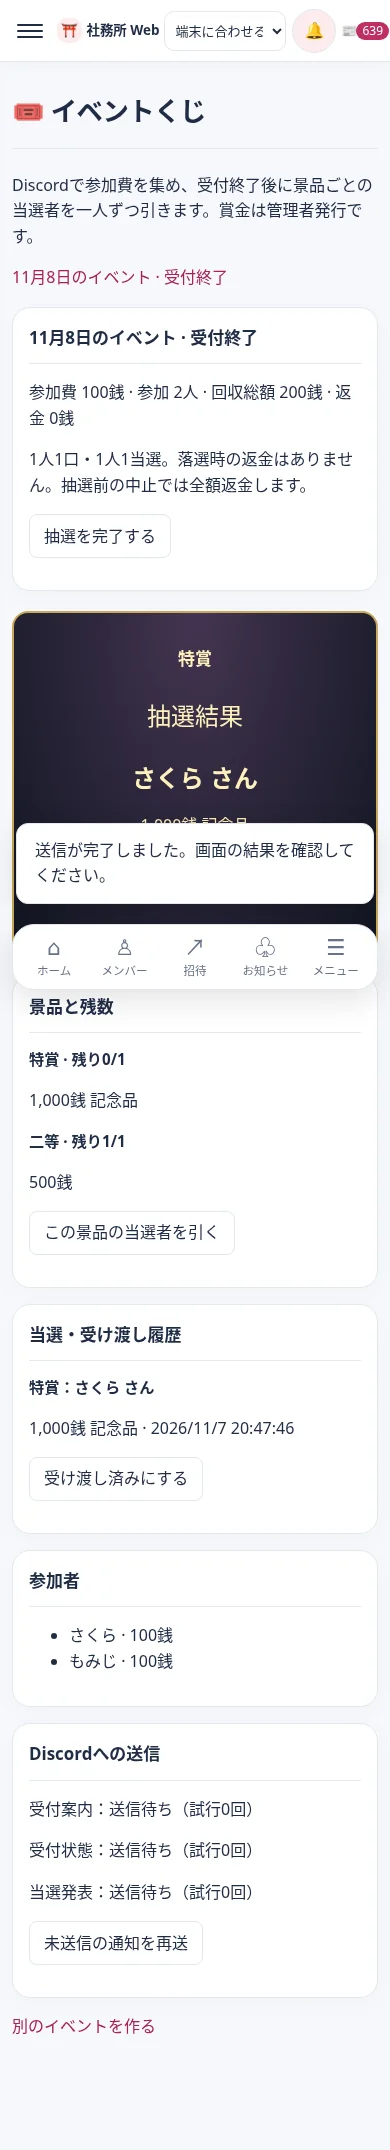
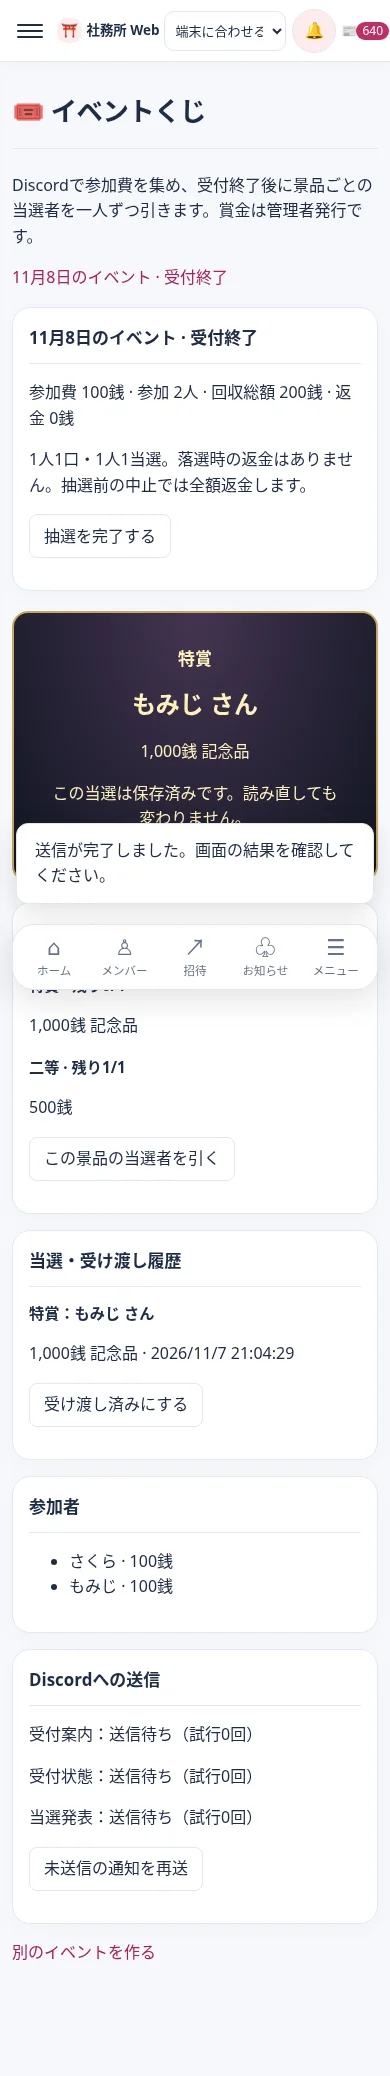
画面内更新でも抽選演出を動かし入力エラーから修正できるようにする

diff --git a/src/web/eventLottery.tsx b/src/web/eventLottery.tsx
@@ -17,7 +17,7 @@ export function mountEventLottery(app:Hono<Env>,db:Db,channels:()=>Promise<Guild
   const field=(name:string,value:string|number)=><input type="hidden" name={name} value={String(value)}/>;
   const form=(action:string,label:string,extra:Record<string,string>={})=><form method="post" action={PATH}>{field('_csrf',s.csrfToken)}{field('eventId',id!)}{field('version',model!.event.version)}{field('action',action)}{Object.entries(extra).map(([k,v])=>field(k,v))}<button type="submit">{label}</button></form>;
   const result=model?.results.find(r=>r.id===c.req.query('draw'));
-  return c.html(<Layout title="イベントくじ" session={s} nav="economy"><link rel="stylesheet" href={assetUrl('event-lottery.css')}/><script src={assetUrl('event-lottery.js')} defer/><h1>🎟 イベントくじ</h1><p>Discordで参加費を集め、受付終了後に景品ごとの当選者を一人ずつ引きます。賞金は管理者発行です。</p><p role="status">{c.req.query('message')}</p><nav>{list.map(e=><p><a href={PATH+'?event='+e.id}>{e.name} · {states[e.state]}</a></p>)}</nav>
+  return c.html(<Layout title="イベントくじ" session={s} nav="economy"><link rel="stylesheet" href={assetUrl('event-lottery.css')}/><script src={assetUrl('event-lottery.js')} defer/><h1>🎟 イベントくじ</h1><p>Discordで参加費を集め、受付終了後に景品ごとの当選者を一人ずつ引きます。賞金は管理者発行です。</p><p class={c.req.query('message')?'flash warn':undefined} role={c.req.query('message')?'alert':'status'}>{c.req.query('message')}</p><nav>{list.map(e=><p><a href={PATH+'?event='+e.id}>{e.name} · {states[e.state]}</a></p>)}</nav>
   {(!model||model.event.state==='draft'&&c.req.query('edit')==='1')?<section class="card"><h2>イベントを作る</h2><form method="post" action={PATH}>{field('_csrf',s.csrfToken)}{field('action',model?'edit':'create')}{model&&<>{field('eventId',model.event.id)}{field('version',model.event.version)}</>}<label>イベント名<input name="name" maxlength={100} value={model?.event.name??''} required/></label><label>参加費（銭）<input name="fee" type="number" min={1} max={100000000} value={model?.event.fee} required/></label><label>受付チャンネルのID<input name="channelId" value={model?.event.channelId} pattern="[0-9]{17,20}" required/></label><label>結果発表チャンネルのID<input name="resultChannelId" value={model?.event.resultChannelId} pattern="[0-9]{17,20}" required/></label><p>Discordでチャンネルを右クリックしてIDをコピーします。BOTが投稿できるチャンネルを指定してください。</p><h3>景品</h3><p>使う行だけ名前を入れてください。銭と品物を組み合わせられます。受付開始後は変更できません。</p>{Array.from({length:10},(_,i)=><fieldset><legend>景品{i+1}</legend><label>名前<input name={'name'+i} value={model?.event.prizes[i]?.name??''} maxlength={100}/></label><label>本数<input name={'count'+i} type="number" min={1} max={10000} value={model?.event.prizes[i]?.count??1}/></label><label>1人分の賞金（銭）<input name={'coins'+i} type="number" min={0} max={100000000} value={model?.event.prizes[i]?.coins??0}/></label><label>品物・受け渡し内容<input name={'item'+i} value={model?.event.prizes[i]?.item??''} maxlength={500}/></label></fieldset>)}<button>準備中として保存</button></form></section>:<>
   <section class="card"><h2>{model.event.name} · {states[model.event.state]}</h2><p>参加費 {model.event.fee.toLocaleString()}銭 · 参加 {model.participants.length}人 · 回収総額 {model.collected.toLocaleString()}銭 · 返金 {model.refunded.toLocaleString()}銭</p><p>1人1口・1人1当選。落選時の返金はありません。抽選前の中止では全額返金します。</p>{model.event.state==='draft'&&<a href={PATH+'?event='+id+'&edit=1'}>受付内容・景品を変更する</a>}<div class="el-actions">{model.event.state==='draft'&&form('open','受付開始・Discordへ案内')}{model.event.state==='open'&&form('close','受付を締め切る')}{['draft','open','closed'].includes(model.event.state)&&!model.results.length&&form('cancel','中止して全額返金')}{model.event.state==='closed'&&form('complete','抽選を完了する')}</div></section>
   {result&&<section class="el-stage" data-el-result data-el-id={result.id} data-el-at={result.createdAt.getTime()+3000} data-el-names={JSON.stringify(model.participants.filter(p=>!p.refunded).map(p=>p.displayName))}><h2>{result.prizeName}</h2><p data-el-spinner aria-hidden="true">抽選結果</p><div data-el-winner><strong>{result.displayName} さん</strong><p>{result.coins.toLocaleString()}銭 {result.item}</p></div><p>この当選は保存済みです。読み直しても変わりません。</p></section>}
@@ -36,5 +36,5 @@ export function mountEventLottery(app:Hono<Env>,db:Db,channels:()=>Promise<Guild
   else if(action==='retry')await retryEventLotteryNotices(db,id,s.userId);
   else await changeEventLottery(db,id,s.userId,Number(b.version),action);
   return c.redirect(PATH+'?event='+id+(draw?'&draw='+draw:''),303);
- }catch(e){if(!(e instanceof EventLotteryError))throw e;return c.redirect(PATH+'?'+(id?'event='+id+'&':'')+'message='+encodeURIComponent(e.message),303);}});
+ }catch(e){if(!(e instanceof EventLotteryError))throw e;return c.redirect(PATH+'?'+(id?'event='+id+'&':'')+'e=invalid&message='+encodeURIComponent(e.message),303);}});
 }

diff --git a/src/web/public/event-lottery.js b/src/web/public/event-lottery.js
@@ -1,1 +1,21 @@
-(()=>{for(const form of document.querySelectorAll('form')){if(!form.querySelector('[name="action"]'))continue;form.addEventListener('submit',e=>{const action=form.querySelector('[name="action"]').value;if(action==='cancel'&&!confirm('イベントを中止し、参加費を全員へ返金しますか？')){e.preventDefault();return;}if(action==='open'&&!confirm('受付を開始します。以後、参加費と景品を変更できません。よろしいですか？')){e.preventDefault();return;}for(const b of form.querySelectorAll('button'))b.disabled=true;});}const s=document.querySelector('[data-el-result]');if(!s)return;const winner=s.querySelector('[data-el-winner]'),spin=s.querySelector('[data-el-spinner]');const left=Math.max(0,Math.min(3000,Number(s.dataset.elAt)-Date.now()));if(!left||matchMedia('(prefers-reduced-motion: reduce)').matches){spin.hidden=true;return;}winner.hidden=true;const names=JSON.parse(s.dataset.elNames||'[]');let n=0;const timer=setInterval(()=>{spin.textContent=names[n++%names.length]||'抽選中';},80);setTimeout(()=>{clearInterval(timer);spin.hidden=true;winner.hidden=false;winner.setAttribute('role','status');},left);})();
+// 社務所の画面内更新でも、新しい抽選結果と確認ボタンを初期化する。
+(()=>{
+ const forms=new WeakSet(),stages=new WeakSet();
+ function init(){
+  for(const form of document.querySelectorAll('form')){
+   if(forms.has(form)||!form.querySelector('[name="action"]'))continue;forms.add(form);
+   form.addEventListener('submit',e=>{const action=form.querySelector('[name="action"]').value;
+    if(action==='cancel'&&!confirm('イベントを中止し、参加費を全員へ返金しますか？')){e.preventDefault();return;}
+    if(action==='open'&&!confirm('受付を開始します。以後、参加費と景品を変更できません。よろしいですか？')){e.preventDefault();return;}
+   });
+  }
+  const s=document.querySelector('[data-el-result]');if(!s||stages.has(s))return;stages.add(s);
+  const winner=s.querySelector('[data-el-winner]'),spin=s.querySelector('[data-el-spinner]');
+  const left=Math.max(0,Math.min(3000,Number(s.dataset.elAt)-Date.now()));
+  if(!left||matchMedia('(prefers-reduced-motion: reduce)').matches){spin.hidden=true;return;}
+  winner.hidden=true;const names=JSON.parse(s.dataset.elNames||'[]');let n=0;
+  const timer=setInterval(()=>{if(!s.isConnected){clearInterval(timer);return;}spin.textContent=names[n++%names.length]||'抽選中';},80);
+  setTimeout(()=>{clearInterval(timer);spin.hidden=true;winner.hidden=false;winner.setAttribute('role','status');},left);
+ }
+ init();document.addEventListener('office:updated',init);
+})();

diff --git a/docs/work-notes.md b/docs/work-notes.md
@@ -8,6 +8,9 @@
 - 関連3ファイル13件成功（6.79秒）。初回のテスト用setStaffAlt引数順と型エラーを修正し成功後、再送で3秒待ちを短縮しないよう失敗通知だけ再送へ限定。途中の全件はSIGINTで中断してログ/tmp/event-all-before-notice-fix.logへ保持し、最終版の型/build/全件をやり直し中。Discord参加イベントの通信エラーもdispatchのcatchで回収する。
 - Chromium：390/1440px、横はみ出しなし、抽選→表示→再読込で同じ当選→受渡済み、JS例外0。見本docs/previews/event-lottery-{admin,draw}-390.webp（架空DB/参加者/銭）。ログ/tmp/event-browser.log。次：最終型/build/全件→fetch/PR保存→CI確認。本番合流はしない。
 
+- 全件結果：バックエンド固定版c69a43f4でNode22型/build、単一全260ファイル2,860件成功（448.54秒、2worker、制限変更なし）。全件中にフロントの画面内更新時の再初期化と入力エラー表示を補正。初回は演出終了後の結果だけを検査していたため、最終Chromiumでは開始直後の当選者非表示/名前切替→3秒後表示、エラー時の入力保持と再送可能も追加して成功。最終フロントで関連13件（6.73秒）と型/buildも成功、配信用JSを最終内容へコピー。金融/抽選/DB処理は全件開始後に変更なし。
+- 最終見本docs/previews/event-lottery-{admin,draw}-390.webpを更新。ログ/tmp/event-{all,types-final,build-final,related-verified,browser-final}.log。全件の前段階2回は通知再送/dispatch例外回収の修正で中断し、ログをbefore-notice-fix/before-dispatch-checkへ保持。未成功を成功扱いにしない。次はfetch・push・PR作成と最終headのCI確認。
+
 ## 2026年11月7日：三神なじませ版をWebへ組込み本番へ反映
 - 本人の「これで本番に反映させて」で、frame-three-people-harmonized.pngのWeb組込み・PR159更新・検証後の合流を承認。以前の合流保留は今回分に限り解除。一般公開/銭接続は保留のまま。
 - 開始：codex/kiseki-reel-first、57ff4d81。前依頼のメモと生成素材2点が未commitで存在し保持。PR159はDraft/未合流で既存headのCIは実行中。本番76181e4cをfetch。
